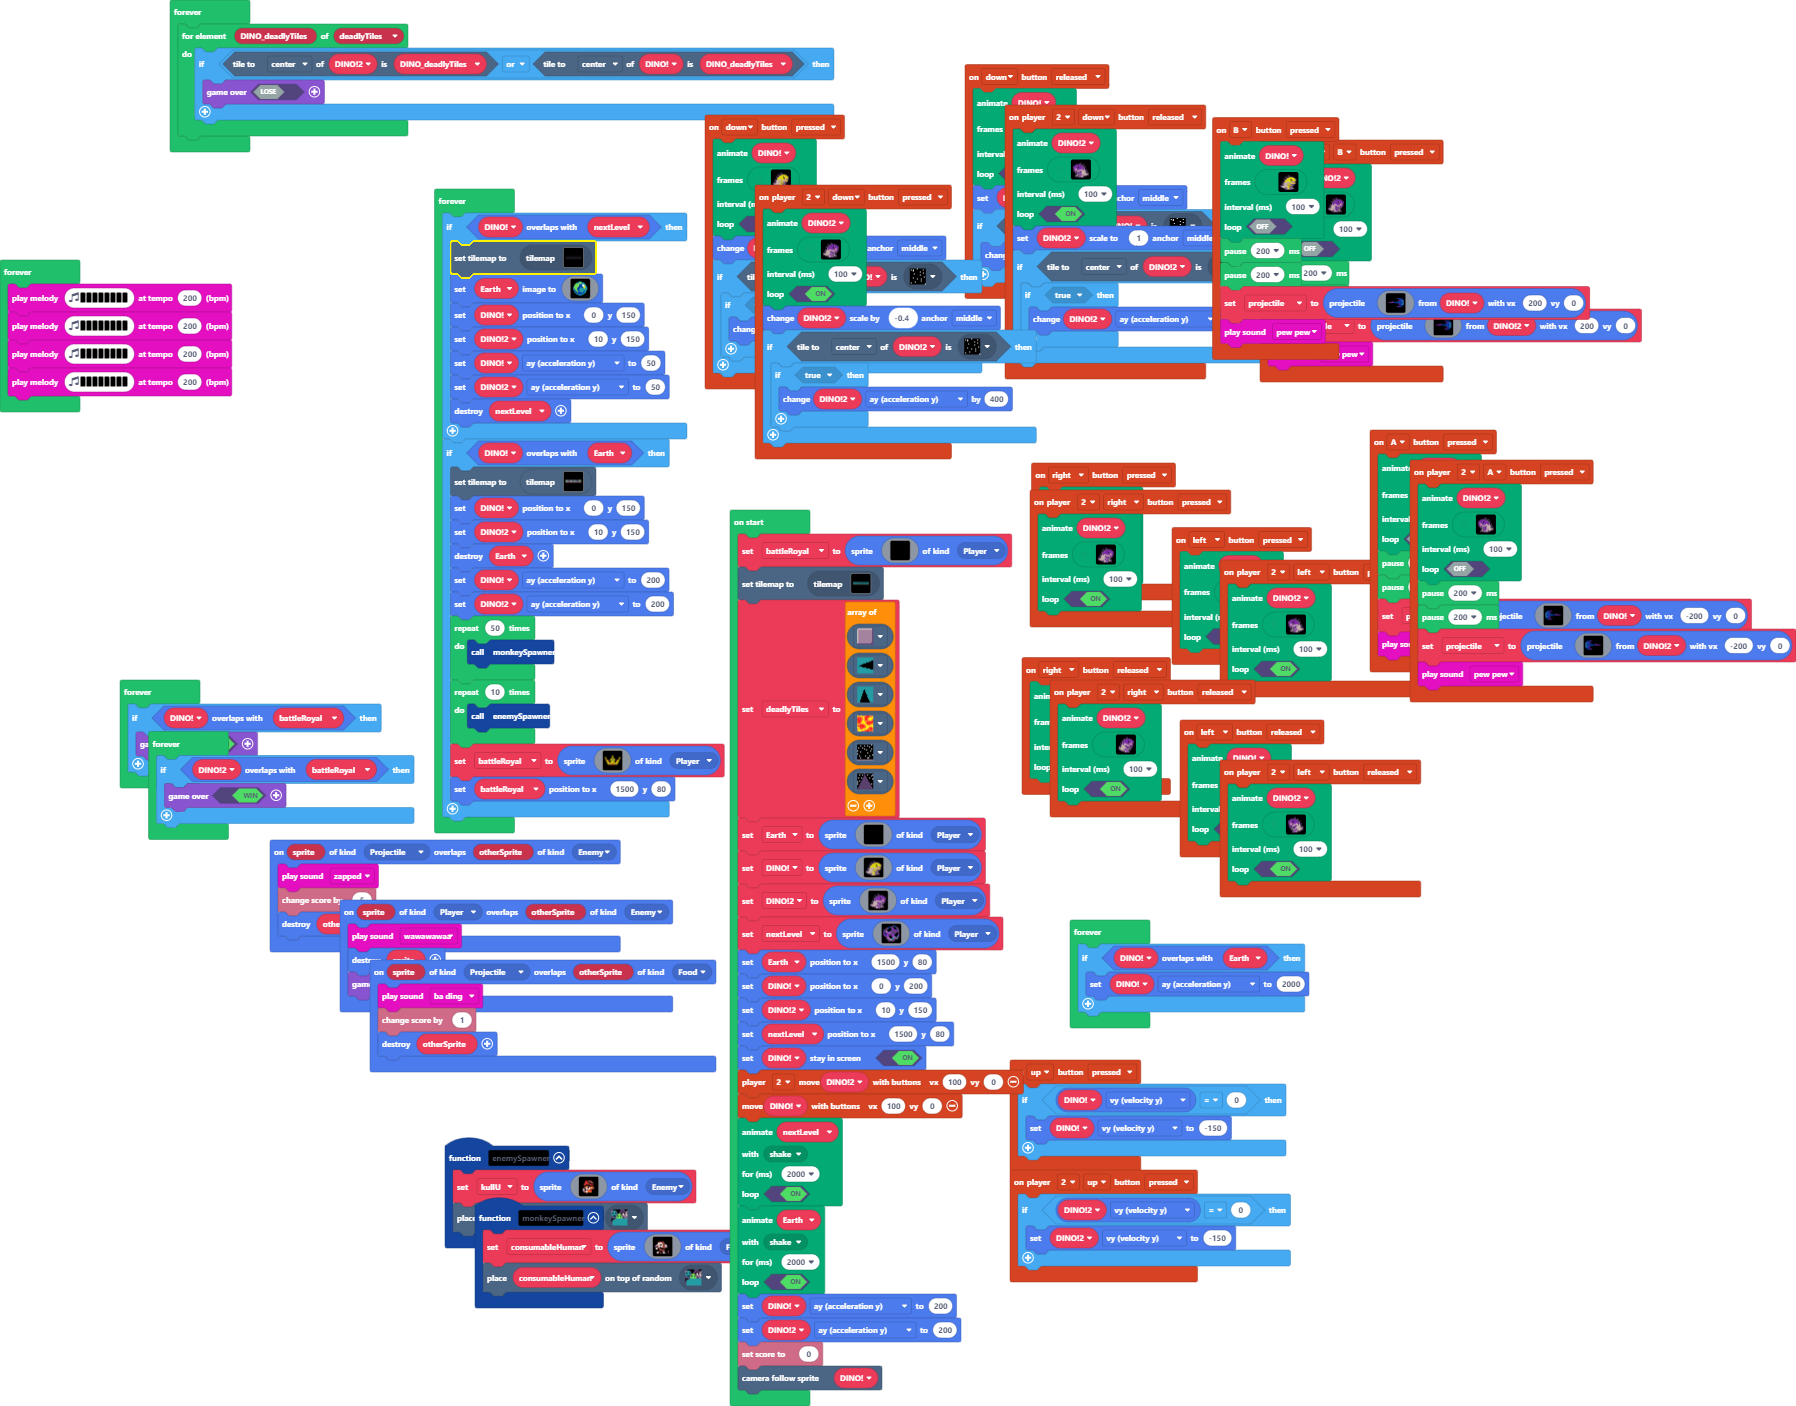
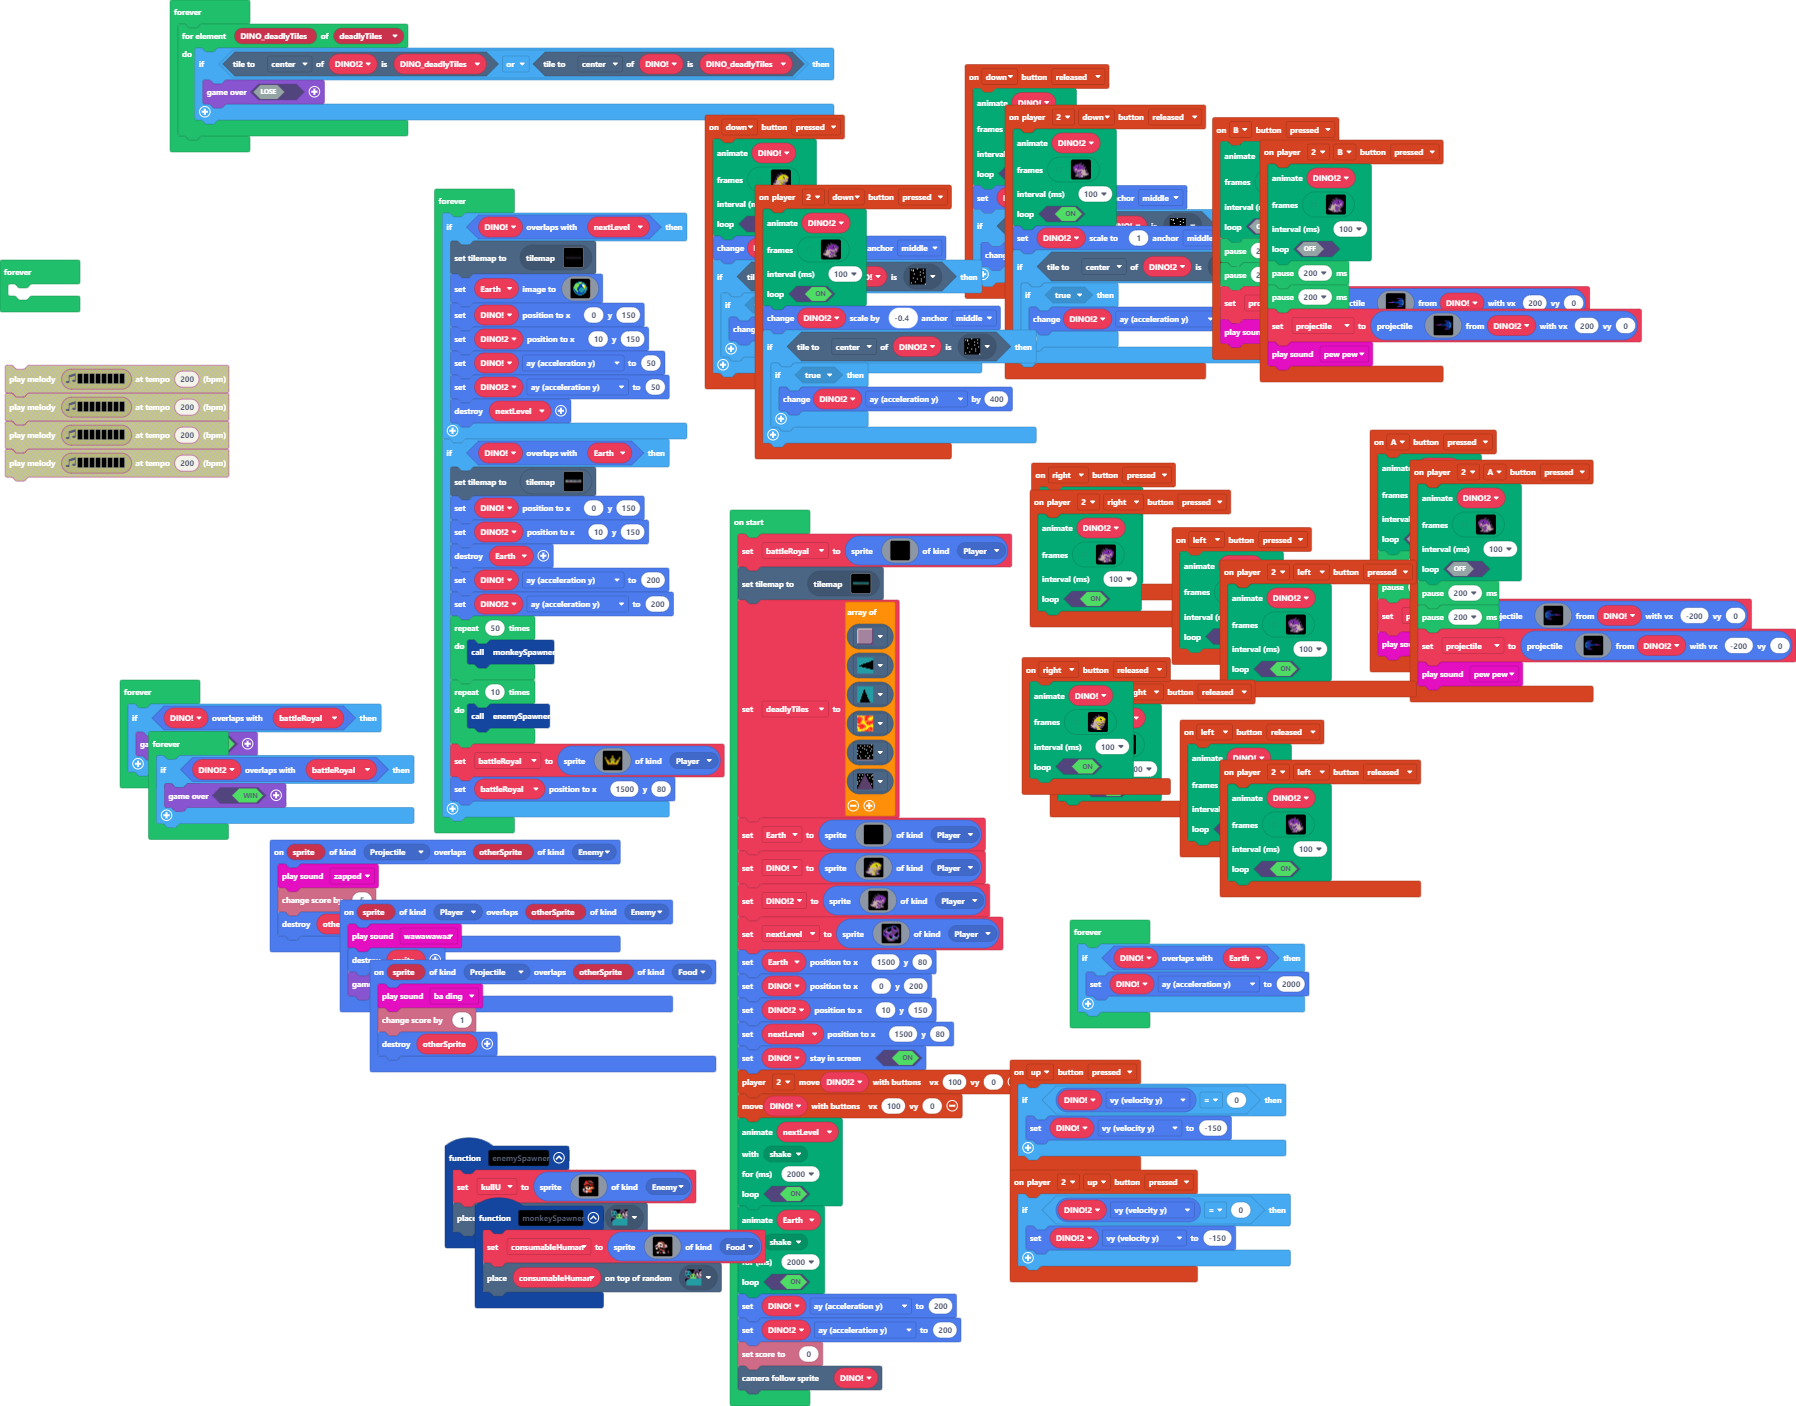
Update main.blocks, main.ts, tilemap.g.jres

diff --git a/main.ts b/main.ts
@@ -1928,10 +1928,7 @@ forever(function () {
     }
 })
 forever(function () {
-    music.playMelody("E A D G B F A C ", 200)
-    music.playMelody("C D E F G A B C5 ", 200)
-    music.playMelody("C5 A B D F E G C ", 200)
-    music.playMelody("B F D C G E C5 A ", 200)
+	
 })
 forever(function () {
     if (DINO.overlapsWith(battleRoyal)) {
